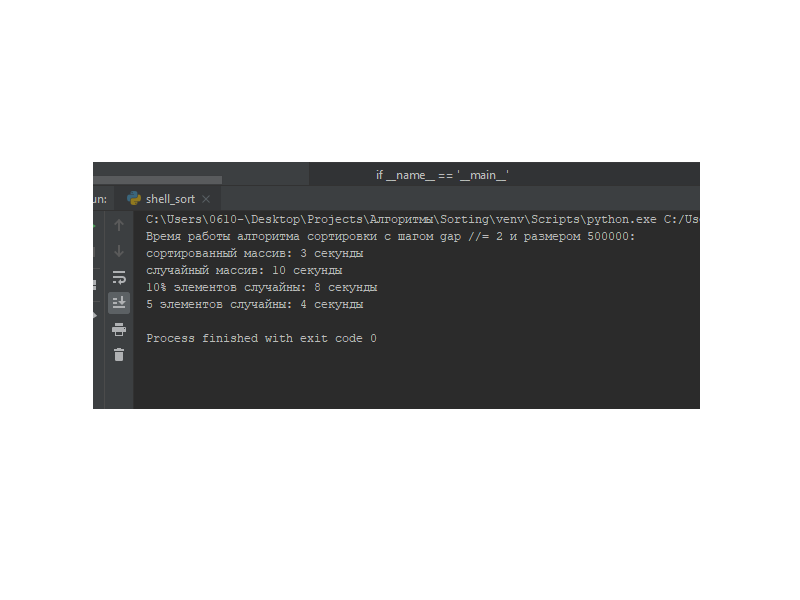
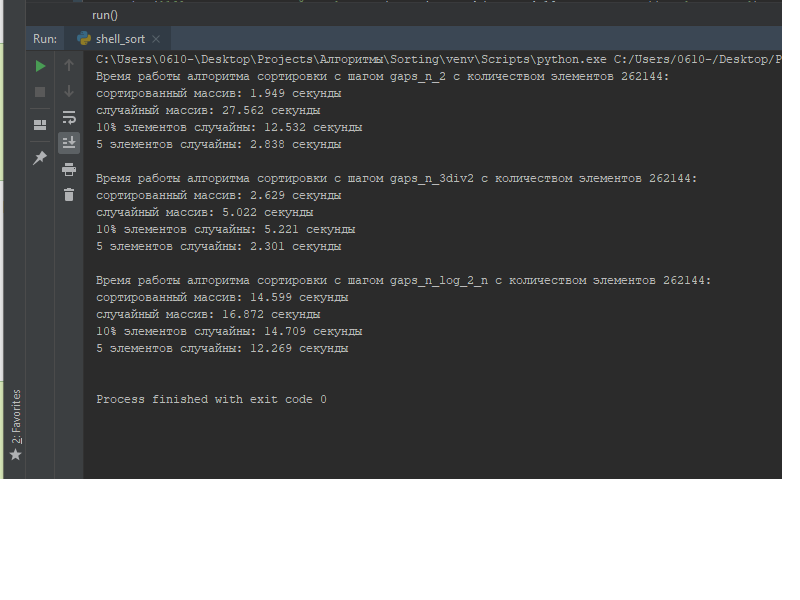
добавила различные шаги

diff --git a/Sorting/shell_sort.py b/Sorting/shell_sort.py
@@ -3,13 +3,36 @@ import time
 import copy
 
 
-def get_gap():
-    pass
+def gaps_n_2(n):
+    n //= 2
+    while n > 0:
+        yield n
+        n //= 2
 
 
-def shell_sort(arr):
-    gap = len(arr) // 2
-    while gap > 0:
+def gaps_n_3div2(n):
+    max_k = 0
+    while 2 ** max_k - 1 < n:
+        max_k += 1
+    for k in range(max_k - 1, -1, -1):
+        yield 2 ** k - 1
+
+
+def gaps_n_log_2_n(n):
+    res = []
+    p = 1
+    while p < n:
+        q = p
+        while q < n:
+            res.append(q)
+            q *= 3
+        p *= 2
+    res.sort(reverse=True)
+    return res
+
+
+def shell_sort(arr, gaps):
+    for gap in gaps(len(arr)):
         i = 0
         while i + gap < len(arr):
             j = i + gap
@@ -19,41 +42,50 @@ def shell_sort(arr):
                 j -= gap
             arr[j] = tmp
             i += 1
-        gap //= 2
     return arr
 
 
-def get_arr(size):
-    arr = []
-    for i in range(size):
-        arr.append(i)
-    return arr
-
-
-def get_time_work(arr):
+def get_time_work(arr, gaps):
     start = time.time()
-    shell_sort(arr)
+    shell_sort(arr, gaps)
     end = time.time()
-    return int((end - start))
+    return round(end - start, 3)
 
 
-if __name__ == '__main__':
-    size = 500000
-    arr_sort = get_arr(size)
+def shuffle_k_elements(arr, k):
+    assert len(arr) >= k
+    positions = set()
+    while len(positions) < k:
+        pos = random.randint(0, len(arr) - 1)
+        positions.add(pos)
+    positions = list(positions)
+    values = [arr[pos] for pos in positions]
+    random.shuffle(values)
+    for pos, val in zip(positions, values):
+        arr[pos] = val
+
+
+def run(gaps):
+    size = 2 ** 18
+    arr_sort = list(range(size))
     arr_rnd = copy.deepcopy(arr_sort)
     random.shuffle(arr_rnd)
     arr_rnd_10percent = copy.deepcopy(arr_sort)
-    for i in range(size // 10):
-        rnd_ind = random.randint(0, size - 1)
-        arr_rnd_10percent[rnd_ind] = i
+    shuffle_k_elements(arr_rnd_10percent, size // 10)
     arr_rnd_5el = copy.deepcopy(arr_sort)
-    for i in range(5):
-        rnd_ind = random.randint(0, size - 1)
-        rnd_val = random.randint(0, size - 1)
-        arr_rnd_5el[rnd_ind] = rnd_val
-    print(f'Время работы алгоритма сортировки с шагом gap //= 2 и размером {size}:')
-    print('сортированный массив: ' + str(get_time_work(arr_sort)) + ' секунды')
-    print('случайный массив: ' + str(get_time_work(arr_rnd)) + ' секунды')
-    print('10% элементов случайны: ' + str(get_time_work(arr_rnd_10percent)) + ' секунды')
-    print('5 элементов случайны: ' + str(get_time_work(arr_rnd_5el)) + ' секунды')
+    shuffle_k_elements(arr_rnd_5el, 5)
+    print(f'Время работы алгоритма сортировки с шагом {gaps.__name__} с количеством элементов {size}:')
+    print('сортированный массив: ' + str(get_time_work(arr_sort, gaps)) + ' секунды')
+    print('случайный массив: ' + str(get_time_work(arr_rnd, gaps)) + ' секунды')
+    print('10% элементов случайны: ' + str(get_time_work(arr_rnd_10percent, gaps)) + ' секунды')
+    print('5 элементов случайны: ' + str(get_time_work(arr_rnd_5el, gaps)) + ' секунды')
+    print()
 
+
+def main():
+    for gaps in [gaps_n_2, gaps_n_3div2, gaps_n_log_2_n]:
+        run(gaps)
+
+
+if __name__ == '__main__':
+    main()
